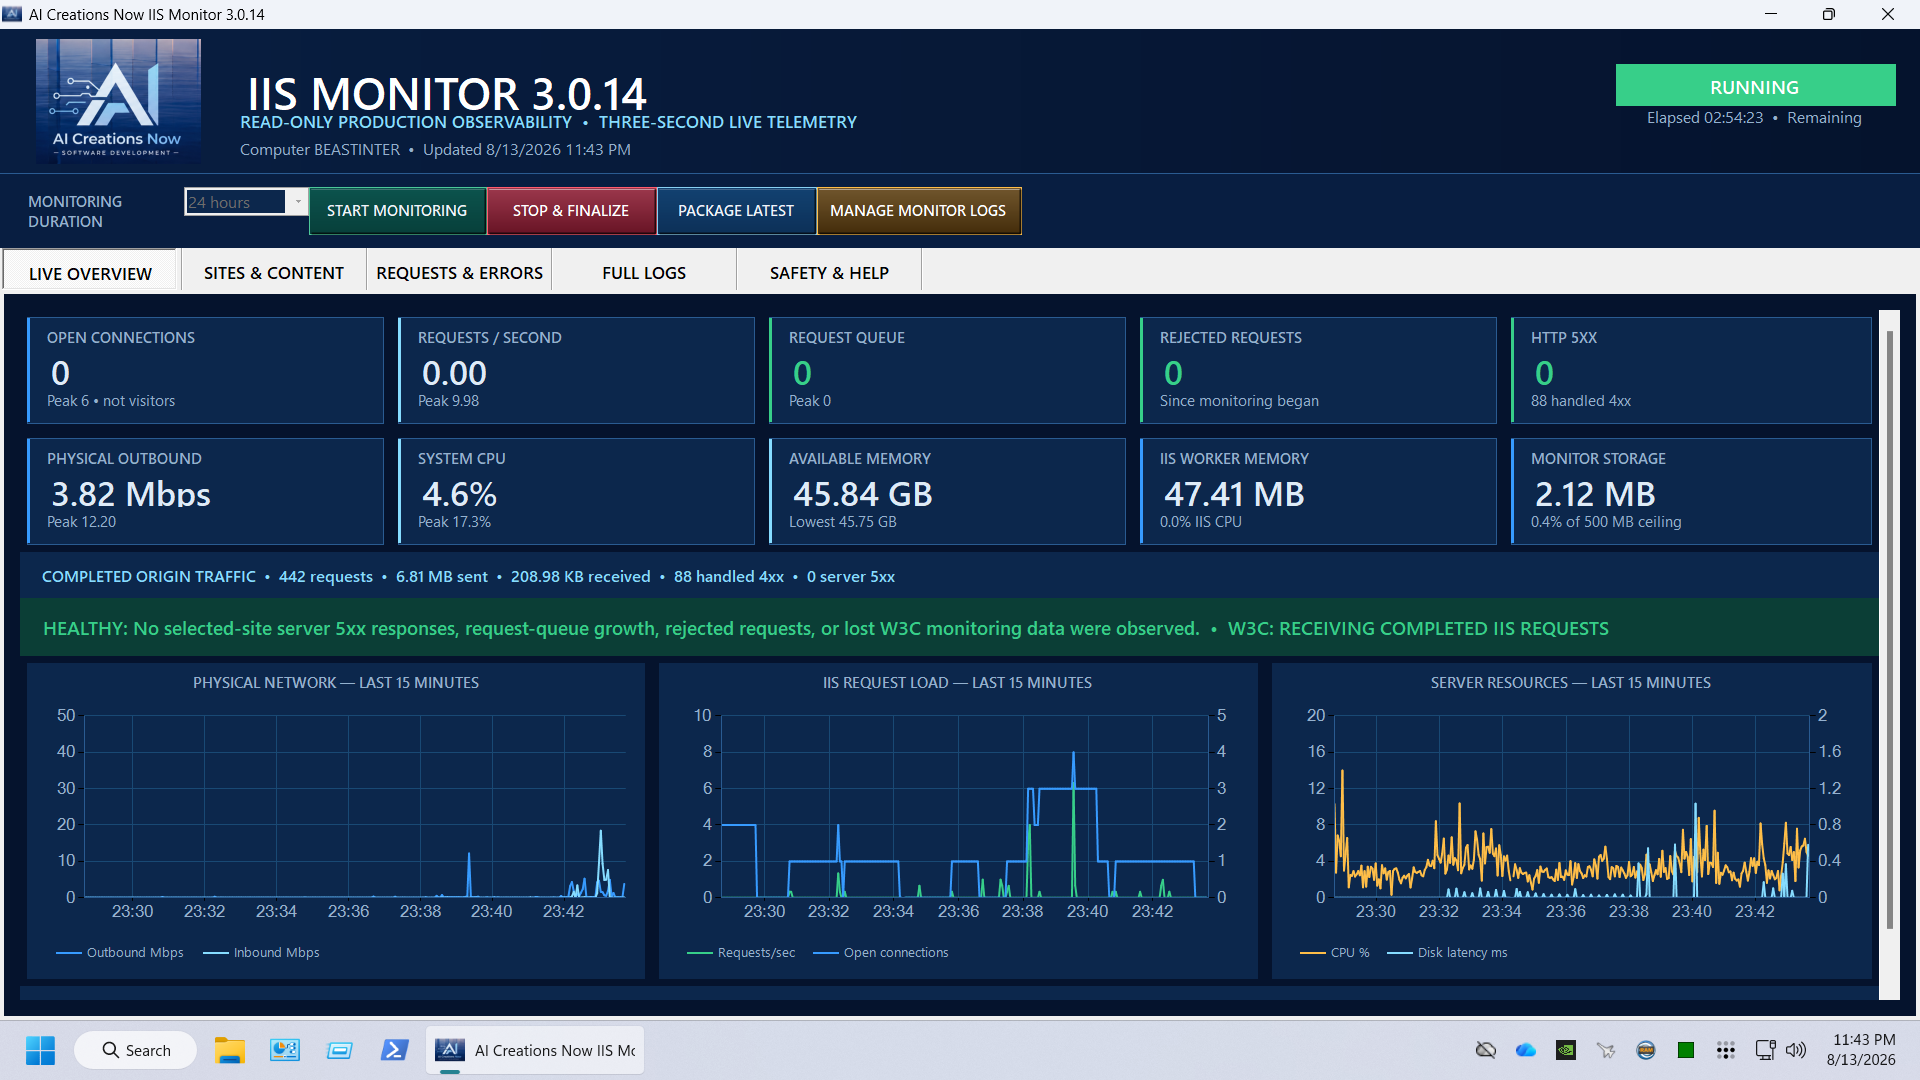
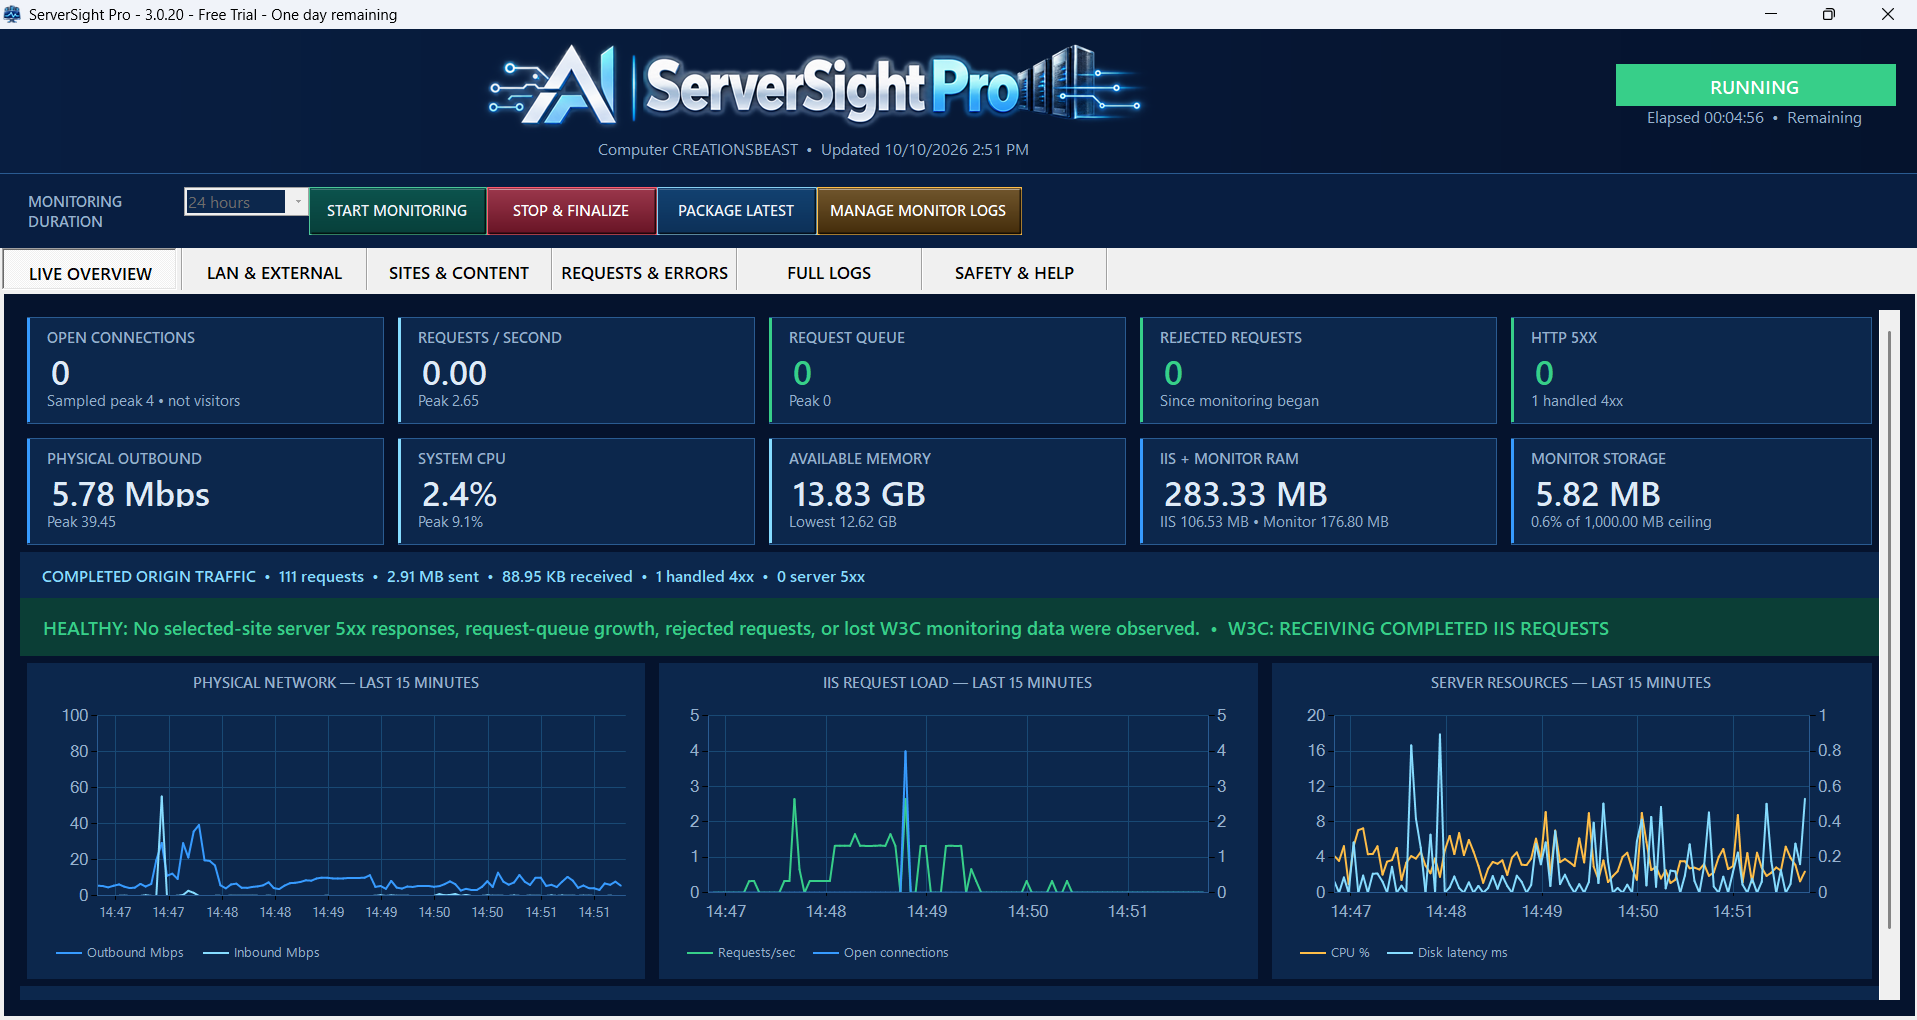
Rebrand product documentation and artwork as ServerSight Pro 3.0.20

diff --git a/README.md b/README.md
@@ -1,57 +1,96 @@
 <p align="center">
-  <a href="https://aicreatenow.com/">
-    <img src="organization-logo.png" alt="AI Creations Now Software Development" width="120" height="120">
+  <a href="https://serversightpro.com/">
+    <img src="assets/app-icon.png" alt="ServerSight Pro application icon" width="112">
   </a>
 </p>
 
-<h1 align="center">IIS Monitor</h1>
-
-**A Windows dashboard for Microsoft IIS activity and server health.** IIS Monitor from AI Creations Now Software Development brings selected-site traffic, bandwidth, downloads, HTTP errors, connections and system resources into one view.
-
-<p align="center">
-  <a href="https://aicreatenow.com/IISMonitor.html">Product page and purchase</a>
-</p>
+<h1 align="center">ServerSight Pro</h1>
+<p align="center"><strong>Your server. In full view.</strong><br>Live IIS monitoring, Windows resource insights and local session reports.</p>
 
 <p align="center">
-  <img src="iis-monitor-live-overview.png" alt="IIS Monitor live overview with site health and performance charts" width="840">
+  <a href="https://download.aicreatenow.com/software/ServerSightPro3.0.0.20microsoft2.exe"><strong>Download free trial</strong></a> ·
+  <a href="https://serversightpro.com/">Official website</a> ·
+  <a href="https://serversightpro.com/screenshots.html">Screenshots &amp; video</a> ·
+  <a href="https://buy.stripe.com/5kQdRb77Z28UfME5ZQ5kk03">Buy lifetime license</a>
 </p>
 
-## Features
+<p align="center">Version 3.0.20 · Windows x64 · Two-day free trial · $39.99 lifetime license for one computer</p>
 
-- Choose which discovered IIS websites to include in a monitoring session.
-- View dashboard updates every three seconds, including server resources and selected-site activity.
-- Review website, content, download and HTTP-error tables with plain-language health summaries.
-- Retain detailed CSV, TXT and JSON reports, and package a session as a ZIP.
-- Monitor without changing IIS sites, application pools, bindings, firewall rules or official IIS logs.
+<p align="center">
+  <a href="https://serversightpro.com/screenshots.html">
+    <img src="assets/screen-overview.webp" alt="ServerSight Pro 3.0.20 Live Overview showing IIS activity, network throughput, CPU, memory and session charts" width="1000">
+  </a>
+</p>
 
-## Requirements and setup
+## Understand the activity behind your websites
 
-Use a Windows x64 computer with Microsoft IIS and compatible Windows components and logging settings. Request the **IIS Compatibility Tester** before purchasing to check your system.
+ServerSight Pro brings website requests, bandwidth, HTTP errors and Windows resource measurements into one desktop workspace. Choose the IIS sites you want to watch, record a session and keep reports you can review later.
 
-IIS Monitor is a portable desktop application. Activate it using the supplied 10-digit code and complete the first online verification, select your sites, then start monitoring. Stop the session cleanly before reviewing or packaging its final reports.
+For home labs, independent developers, small businesses and server administrators, it offers a practical way to see what is happening at your Windows IIS origin. Monitoring reads existing information without changing your websites, application pools, bindings, logging fields, DNS or firewall rules.
 
-The dashboard measures activity that reaches the IIS server. Content served entirely from Cloudflare's cache does not reach IIS and is not included. Connection counts are not visitor counts, and completed requests appear after IIS finishes processing them.
+## One workspace, six useful views
 
-## License, delivery and support
+| View | What you can see |
+| --- | --- |
+| **Live Overview** | Requests, connections, queues, network throughput, CPU, available memory, IIS worker resources and disk activity, with recent time-series charts. |
+| **LAN & External** | Separate views of local-network and public TCP/UDP activity, alongside whole-adapter measurements. |
+| **Sites & Content** | Selected websites, completed downloads, uploads and URLs, with request counts and transferred bytes. |
+| **Requests & Errors** | Completed request history, 4xx/5xx filtering, readable HTTP status explanations and suggested actions. |
+| **Full Logs** | Local CSV, TXT and JSON reports, with ZIP packaging for a finalized session. |
+| **Safety & Help** | Measurement guidance, license activation and controls for product-owned results. |
 
-**$29.99 one-time payment** buys a lifetime license for one computer, with lifetime software upgrades, customer support and the IIS Compatibility Tester. No subscription is required.
+Core telemetry updates every three seconds. Detailed live tables publish up to once a minute when changed, and at finalization.
 
-[Buy through the official product page](https://aicreatenow.com/IISMonitor.html). The software, 10-digit license code and Compatibility Tester are emailed to the checkout address within one hour.
+<p align="center">
+  <a href="https://serversightpro.com/screenshots.html">
+    <img src="assets/screen-content.webp" alt="ServerSight Pro Sites and Content view showing website content activity and transferred bytes" width="1000">
+  </a>
+</p>
 
-For a pre-purchase compatibility check, email [info@aicreatenow.com](mailto:info@aicreatenow.com?subject=IIS%20Monitor%20Compatibility%20Tester%20Request). For support or delivery help, use the same email address or call **1-866-315-4750**.
+## From a question to a saved report
 
-See [support information](SUPPORT.md) for what to include when requesting help.
+1. **Choose your sites.** Select the IIS websites you want included.
+2. **Set your recording window.** Choose 1, 6, 12, 24, 48, 72 or 168 hours and start monitoring.
+3. **Explore the activity.** Move between server, network, content and request views.
+4. **Keep the evidence.** Use **Stop & Finalize** to save the session, then create a ZIP when you want to share it.
 
-## Practical guide and release notes
+Results are saved locally, normally in the application's results folder on your Desktop. They are not automatically uploaded. Reports can contain server and client details; review them before sharing. Recording remains subject to available storage, system availability and license duration.
 
-[Getting started and common questions](GETTING-STARTED.md) · [GitHub release notes](https://github.com/aicreatenowdom/iis-monitor/releases) · [Support](SUPPORT.md)
+## Try it on your server
 
-GitHub's **Code → Download ZIP** contains this repository's documentation and artwork. Get the Windows application through the [official product page](https://aicreatenow.com/IISMonitor.html).
+**The two-day free trial starts only when you choose “Start Two-Day Free Trial” in the application.** Installing alone does not start the clock. The trial lasts 48 elapsed hours, including time while the app is closed.
 
-## Source and licensing
+A **$39.99 one-time purchase** provides a lifetime license for one activated computer, with no recurring license subscription. Enter your delivered 10-digit key before starting the trial, during the trial from **Safety & Help**, or after it expires. Initial activation requires Internet access. Payment alone does not activate the application.
 
-This repository contains documentation for proprietary software. Application source code is not included. Obtain the application and its applicable terms through the official product page.
+[Download for Windows x64](https://download.aicreatenow.com/software/ServerSightPro3.0.0.20microsoft2.exe) · [Buy a lifetime license](https://buy.stripe.com/5kQdRb77Z28UfME5ZQ5kk03) · [Purchase & refund policy](https://aicreatenow.com/cancellation.html#software-refunds)
 
----
+## Before you install
 
-Developed by [AI Creations Now Software Development](https://github.com/aicreatenowdom) · [Official software catalog](https://aicreatenow.com/software.html)
+- **64-bit Windows with IIS**, the required monitoring components and existing IIS W3C logs.
+- **.NET Framework 4.8 or newer.**
+- **Administrator access** for setup and monitoring.
+- **Internet access for initial license activation.**
+
+Setup checks prerequisites; it does not install IIS or enable missing logging fields. The installer creates Desktop and Start Menu shortcuts and a Windows Apps uninstall entry. Ordinary uninstall preserves saved Desktop results and separate trial and registration records.
+
+### Understand what the numbers mean
+
+Connection counts are not unique visitors. Requests served entirely by a CDN cache never reach IIS and are outside the origin view. Whole-adapter traffic includes other applications and protocols, so it will differ from selected-site request totals. Available details depend on existing log fields and Windows counters; individual request detail may be sampled at high load.
+
+[Explore all features](https://serversightpro.com/features.html) · [Read setup and measurement guidance](https://serversightpro.com/help.html)
+
+## Support and publisher
+
+**AI Creations Now Software Development**  
+[info@aicreatenow.com](mailto:info@aicreatenow.com) · 1-866-315-4750  
+[Application privacy](https://serversightpro.com/privacy.html) · [Company website](https://aicreatenow.com/)
+
+[Getting started & common questions](GETTING-STARTED.md) · [Support](SUPPORT.md) · [GitHub release history](https://github.com/aicreatenowdom/iis-monitor/releases)
+
+## About this repository
+
+This repository provides documentation and artwork for proprietary software. Application source code is not included. GitHub's **Code → Download ZIP** downloads the documentation and artwork; use the [official Windows download](https://serversightpro.com/download.html) to get the application and its applicable terms.
+
+The existing repository address is retained so published links continue to work. For current branding, downloads and documentation, use **[ServerSightPro.com](https://serversightpro.com/)**.
+
+© 2026 AI Creations Now Software Development.

diff --git a/GETTING-STARTED.md b/GETTING-STARTED.md
@@ -1,29 +1,61 @@
-# IIS Monitor: inspect website activity and HTTP errors
+# Get started with ServerSight Pro
 
-## Start an IIS monitoring session
+See the activity reaching your Windows IIS server, investigate HTTP errors and keep local session reports.
 
-1. Request the **IIS Compatibility Tester** through [support](SUPPORT.md) before purchasing, and check the intended Windows IIS server.
-2. Obtain the portable application and license through the [official product page](https://aicreatenow.com/IISMonitor.html).
-3. Activate using the supplied 10-digit code and complete the initial online verification.
-4. Select the discovered IIS websites you want to include and start monitoring.
-5. Review selected-site activity and server resources, then stop the session cleanly before reviewing or packaging the final reports.
+## Install and choose your access
+
+1. Check that the computer runs **64-bit Windows with IIS**, **.NET Framework 4.8 or newer**, and the monitoring components and existing W3C logging fields required for your measurements. Administrator access is required. See [system requirements](https://serversightpro.com/download.html) and [setup help](https://serversightpro.com/help.html#requirements).
+2. Download the [ServerSight Pro 3.0.20 Windows installer](https://download.aicreatenow.com/software/ServerSightPro3.0.0.20microsoft2.exe). Before installing, check the file's **Properties → Digital Signatures** for **AI Creations Now Software Development**.
+3. Run Setup, review the installation and privacy information, and launch the installed application.
+4. Choose **Start Two-Day Free Trial**, or enter your delivered **10-digit license key**. The trial starts only when you explicitly choose to start it; installing alone does not start the clock. Initial license activation requires Internet access.
+
+Setup does not install IIS or enable missing counters and logging fields. Available measurements depend on the Windows/IIS components and log fields already present.
+
+## Record your first session
+
+1. Select the discovered IIS websites you want included.
+2. Choose a recording duration: **1, 6, 12, 24, 48, 72 or 168 hours**.
+3. Select **Start Monitoring** and explore the six main views.
+4. Use **Stop & Finalize** to end the session early when you have the evidence you need.
+5. Review the saved CSV, TXT and JSON reports. Package a finalized session as a ZIP if you want to share it.
+
+Results are normally saved in the application's results folder on your Desktop. Monitoring results are not automatically uploaded. The application does not provide native PDF or HTML report export.
+
+Sessions extending beyond the trial's 48-hour deadline require activation. Available storage, Windows uptime and other interruptions also affect recording. Minimizing keeps the monitoring worker running; a normal application close finalizes the session and removes the product-owned worker.
 
 ## Investigate an HTTP-error spike
 
-Use the HTTP-error and content tables to identify the affected site, status and time period. Compare that interval with server-resource changes and the site's normal operational logs. An error count is a starting point for investigation; it does not by itself establish the cause.
+Open **Requests & Errors**, filter HTTP 4xx/5xx responses and identify the affected site, status and time period. Read the status explanation and suggested action, then compare the interval with resource changes in **Live Overview** and the site's ordinary operational logs.
 
-The application keeps detailed CSV, TXT and JSON reports and can package a monitoring session as a ZIP. Include the relevant session interval when requesting help.
+An error count is a starting point for investigation; it does not establish the cause by itself. Include the relevant session interval when requesting help, and review exported reports for sensitive data before sharing.
 
 ## Common questions
 
-**Does monitoring reconfigure IIS?** No. It does not change websites, application pools, bindings, firewall rules or official IIS logs.
+**Does monitoring reconfigure IIS?**  
+No. It reads existing evidence without changing websites, application pools, bindings, logging fields, firewall rules, DNS or original IIS logs. It creates its own monitoring files, worker and licensing state.
 
-**Why can Cloudflare show more traffic than IIS?** Content served entirely from Cloudflare's cache does not reach the IIS server. IIS Monitor measures activity at the origin server.
+**Why can Cloudflare show more traffic than the application?**  
+Requests served entirely from a CDN cache do not reach IIS. ServerSight Pro shows origin evidence and separate server-network measurements. Public external connections can include Cloudflare proxy connections.
 
-**Are connections the same as visitors?** No. Connection counts are not unique visitor counts. Completed requests appear after IIS finishes processing them.
+**Are connections the same as visitors?**  
+No. A browser, person or proxy can establish several connections. Connection counts are not unique human visitor counts.
 
-**How often does the dashboard update?** Dashboard updates occur every three seconds. Review the completed session reports for the recorded detail.
+**Why do network and IIS byte totals differ?**  
+Physical-adapter traffic includes other applications, protocols and LAN activity. Completed IIS totals come from existing records for your selected sites. Their scopes are different.
 
-Share only the diagnostic information needed for a support case and remove credentials and unrelated customer information before sending logs.
+**How often does the display update?**  
+Core telemetry updates every three seconds. Detailed live tables publish up to once a minute when changed, and at finalization. Completed request details become available after IIS processing is recorded in the existing logs.
 
-[Back to product overview](README.md) · [Support](SUPPORT.md)
+**Why is a field unavailable?**  
+Coverage depends on available counters and existing IIS logging fields. Missing data is not proof of zero activity. Individual request detail may be sampled at high load.
+
+**When does the free trial end?**  
+It lasts 48 elapsed hours from your explicit trial start, including time while the app is closed. At expiry, recording stops and finalization is requested. Saved results remain on disk. Reinstalling does not restart the trial.
+
+**How do I activate?**  
+Purchase a [$39.99 lifetime license for one computer](https://buy.stripe.com/5kQdRb77Z28UfME5ZQ5kk03), then enter the delivered 10-digit key in the application. You can activate before the trial, during it from **Safety & Help**, or after it expires. Payment alone does not activate the software. Hardware or Windows changes can require reactivation.
+
+**What remains after uninstalling?**  
+Ordinary uninstall removes installed application files and shortcuts after product-owned recording is stopped and finalized. Saved Desktop results and separate trial and registration records remain. Original IIS and Windows logs are not removed.
+
+[Full help & measurement guidance](https://serversightpro.com/help.html) · [Privacy information](https://serversightpro.com/privacy.html) · [Support](SUPPORT.md) · [Back to overview](README.md)

diff --git a/SUPPORT.md b/SUPPORT.md
@@ -1,20 +1,32 @@
-# IIS Monitor support
+# ServerSight Pro support
 
-For product help, delivery questions, or activation support, email [info@aicreatenow.com](mailto:info@aicreatenow.com) or call **1-866-315-4750**.
+For setup, monitoring, trial, purchase or activation help, contact **AI Creations Now Software Development** at [info@aicreatenow.com](mailto:info@aicreatenow.com) or **1-866-315-4750**.
 
-Include the product name, application version, Windows version, a short description of the issue, and the steps that reproduce it. For purchase or delivery questions, include the checkout email address in your private message.
-
-Do not post passwords, API tokens, license keys, or unredacted logs in public issues. Share any necessary diagnostic information privately with support.
-
-Current download, purchase, requirements, and delivery details are on the [official product page](https://aicreatenow.com/IISMonitor.html).
-
-This repository provides product documentation. The application is proprietary and its source code is not included.
-
-GitHub's **Code → Download ZIP** downloads this repository's documentation and artwork. Use the official product page linked above to obtain the application.
+Current downloads, requirements and license information are available at **[ServerSightPro.com](https://serversightpro.com/)**.
 
 ## Before contacting support
 
-- Include the Windows version, IIS Compatibility Tester outcome and the affected selected site.
-- For traffic discrepancies, provide the metric, period and whether Cloudflare or another cache served the content.
+Include the product name, application version, Windows version, IIS environment, a short description of the issue and the steps that reproduce it. Mention any compatibility guidance or missing-component messages shown by the application.
 
-[Product guide and common questions](GETTING-STARTED.md)
+For a monitoring question, include:
+
+- The affected selected site and session interval, including the time zone.
+- The specific view and metric you are comparing.
+- Whether Cloudflare or another CDN/cache is involved.
+- Relevant error text and a reviewed screenshot or small diagnostic excerpt.
+
+For purchase or key-delivery questions, include the checkout email address in your **private** message to support. Payment alone does not activate the software; enter the delivered 10-digit key in the application. For missing or damaged trial and registration records, contact support instead of deleting licensing state.
+
+Do not post passwords, API tokens, full license keys, checkout details or unredacted logs in public issues. Reports can include client IP addresses, query strings, server names and other sensitive information. Share only the information needed for the case, privately with support when necessary.
+
+## Useful links
+
+- [Download & system requirements](https://serversightpro.com/download.html)
+- [Getting started and common questions](GETTING-STARTED.md)
+- [Full setup, activation and measurement guidance](https://serversightpro.com/help.html)
+- [Application privacy notice](https://serversightpro.com/privacy.html)
+- [Purchase & refund policy](https://aicreatenow.com/cancellation.html#software-refunds)
+
+This repository provides documentation and artwork for proprietary software. Application source code is not included. GitHub's **Code → Download ZIP** downloads the documentation and artwork; use the official product website to obtain the Windows application.
+
+[Back to product overview](README.md)
